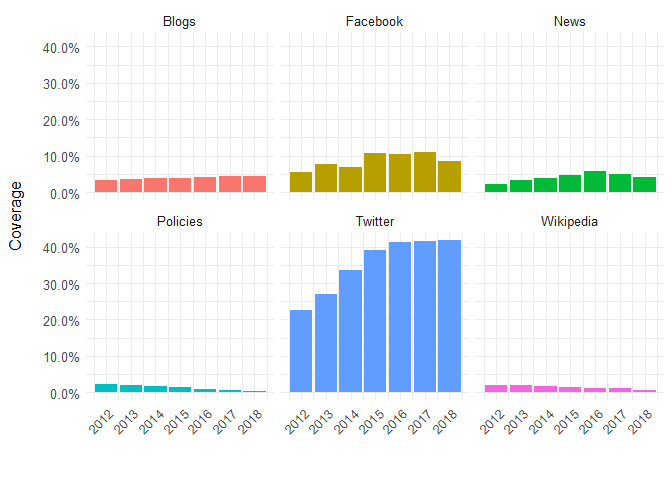
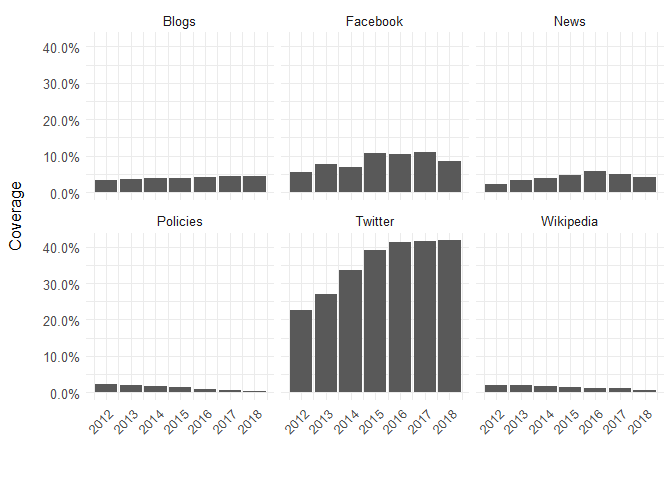
wip

diff --git a/documentation.md b/documentation.md
@@ -53,8 +53,8 @@ read_csv("data/wos_items_year.csv") %>%
 
 ISO Alpha-2 country codes of **first** authors were extracted for the
 set of articles defined above
-([query](queries/create_table_wos_first_authors.sql)), combining the
-following tables:
+([query](queries/create_table_wos_first_author_countries.sql)),
+combining the following tables:
 
   - userdb\_frasernm.dbo.wos\_items (as defined above)
   - wosaddr1913.dbo.pub\_author\_affiliation
@@ -155,7 +155,7 @@ Counts were initially extracted for the following altmetric indicators:
 Where no altmetric information was found for an article, counts were
 registered as zero.
 
-##### Overall coverage of WOS articles by different altmetric indicators per year ([query](queries/calc_altmetric_coverage_year.sql))
+##### Overall coverage of WOS articles by different altmetric indicators per year ([query](queries/calc_altmetrics_coverage_year.sql))
 
 ``` r
 read_csv("data/altmetrics_coverage_year.csv") %>%
@@ -167,7 +167,7 @@ read_csv("data/altmetrics_coverage_year.csv") %>%
                        labels = c("Blogs", "Facebook", "News", "Policies",
                                   "Twitter", "Wikipedia"))) %>%
   ggplot() +
-  geom_bar(aes(x = year, y = value, fill = name), stat = "identity") +
+  geom_bar(aes(x = year, y = value), stat = "identity") +
   facet_wrap(. ~ name) +
   labs(x = "", 
        y = "Coverage") +
@@ -178,13 +178,14 @@ read_csv("data/altmetrics_coverage_year.csv") %>%
 
 ![](documentation_files/figure-gfm/unnamed-chunk-5-1.png)<!-- -->
 
-The best coverage is clearly observed in Twitter, followed by Facebook,
-then news and blogs, Wikipedia and policies. Different temporal trends
-are observed for each indicator, e.g. Twitter coverage increases greatly
-between 2012 and 2016, which may reflect rapid user growth on the
-platform itself. Conversely, policy citations decrease over time, likely
-because policy citations take longer to accrue (\~years) than mentions
-on social media (\~days to weeks).
+The highest coverage is observed in Twitter, followed by Facebook, then
+news and blogs, Wikipedia and policies. Different temporal trends are
+observed for each indicator, e.g. Twitter coverage increases between
+2012 and 2016, which may reflect rapid user growth on the platform
+itself. Conversely, policy citations decrease over time, likely because
+policy citations take longer to accrue (\~years) than mentions on social
+media (\~days to weeks) (see [Fang and
+Costas, 2018](https://openaccess.leidenuniv.nl/handle/1887/65278)).
 
 ## OA Classification
 
@@ -236,9 +237,23 @@ and one excluding PMC articles from Green OA when they match with an
 alternative kind of OA
 ([create\_table\_unpaywall\_classification\_pmccor.sql](queries/create_table_unpaywall_classification_pmccor.sql)).
 
-The number of articles classified as Green OA are compared depending on
-whether PMC is included or excluded as a source of Green OA (note: this
-has no effect on other OA classification types):
+##### Green OA articles in Unpaywall including and excluding PMC ([query](queries/calc_unpaywall_classification_pmc_comparison.sql))
+
+``` r
+read_csv("data/unpaywall_classification_pmc_comparison.csv",
+         col_types = "nln") %>%
+  mutate(pmc_corrected = factor(pmc_corrected,
+                                levels = c(T, F))) %>%
+  ggplot(aes(x = year, y = green, fill = pmc_corrected)) +
+  geom_bar(stat = "identity", position = "dodge") +
+  labs(x = "", 
+       y = "Green OA articles",
+       fill = "Excludes PMC") +
+  scale_x_continuous(breaks = 2010:2019) +
+  scale_y_continuous(labels = scales::comma) +
+  scale_fill_manual(values = c(palette_color("dark green"),
+                               palette_color("light green")))
+```
 
 ![](documentation_files/figure-gfm/unnamed-chunk-6-1.png)<!-- -->
 
@@ -250,64 +265,91 @@ However, when checking the same articles from 2018 and 2019 directly via
 the Unpaywall API, PMC *is* included as an evidence source. A
 possibility is that Unpaywall only crawl PMC sporadically (as articles
 in Gold OA journals, such as PLOS ONE, are deposited immediately to
-PMC), or that a technical issue occurred.
+PMC), or that a technical issue occurred \[**to do:** investigate this
+issue further. Contact Unpaywall?\]
 
-The overlap of PMC with other journal-based OA types (gold, bronze,
-hybrid) was also assessed:
+##### Overlap of articles in PMC with journal-based OA types ([query](queries/calc_unpaywall_classification_pmc_overlap.sql))
+
+``` r
+read_csv("data/unpaywall_classification_pmc_overlap.csv") %>%
+  pivot_longer(closed:bronze) %>%
+  # there is no overlap between closed and PMC
+  filter(name != "closed") %>%
+  mutate(type = factor(name,
+                       levels = c("gold", "hybrid", "bronze"))) %>%
+  ggplot() +
+  geom_bar(aes(x = year, y = value, fill = type),
+           stat = "identity", position = "dodge", width = 0.75) +
+  labs(x = "", 
+       y = "Articles",
+       fill = "OA Type") +
+  scale_x_continuous(breaks = 2010:2019) +
+  scale_y_continuous(labels = scales::comma) +
+  scale_fill_manual(values = c(palette_color("gold"),
+                               palette_color("hybrid"),
+                               palette_color("bronze")))
+```
 
 ![](documentation_files/figure-gfm/unnamed-chunk-7-1.png)<!-- -->
 
 PMC appears to overlap most strongly (and overlap has grown most
 rapidly) with Gold OA, but also a non-negligible amount with Hybrid and
-Bronze OA.
+Bronze OA. Note, as previously, PMC articles are missing from 2018 and
+2019.
 
-#### Should we exclude PMC from our analysis?
-
-From these results there seems no ‘a priori’ reason to completely
-exclude PMC. Even though authors do not deposit work to PMC, it remains
-an open repository and discovery tool and may thus have an influence on
-article impact. An alternative may eventually be to create a separate
-category for PMC articles. For the following documentation, PMC articles
-are included and labelled as Green OA.
-
-### Green OA
+### Exclusivity of Green OA
 
 Following the classification procedure of Robinson-Garcia et al. (2019),
 Green OA is treated as a non-exclusive category, i.e. an article is
 labelled as Green if it is available via a repository, regardless of its
 availability status at the journal page. However, some questions remain
 about this approach in the context of understanding OA impact - for
-example, will authors really use (and be more likely to cite/mention) an
-article if it is an OA repository, when it is also available directly
-(and likely more easily) on a journal page? The impact dynamics are
+example, from the readership perspective, will readers really use (and
+be more likely to cite/mention) an article if it is an OA repository,
+when it is also available directly on a journal page? And from the
+authors perspective - do the authors who publish in OA journals **and**
+self-archive their papers represent a different demographic/category of
+authors, than those who **only** self-archive? The impact dynamics are
 therefore likely different for Green OA, depending on the availability
 of the corresponding journal article.
 
-To understand this better, the share of Green OA that is open (i.e. the
-sum of Gold, Green and Bronze OA) and closed at the journal page is
-shown:
+##### Number of Green OA articles that are open and closed at the corresponding journal page ([query](queries/calc_unpaywall_classification_green_types.sql))
 
 ![](documentation_files/figure-gfm/unnamed-chunk-8-1.png)<!-- -->
 
-Interestingly, Green OA growth is driven more strongly by articles which
-are also available at the corresponding journal page. The decrease in
-Green OA coverage after 2018 is in part due to the issues with PMC
-coverage documented above, and also likely due to journal embargo
-periods. A more fine-grained analysis shows, for the articles available
-at the journal page, the number of articles contributing to Green OA for
-each journal type:
+It appears that Green OA growth is more strongly represented by articles
+which are also available at the corresponding journal page, than closed
+articles. Note, however, that the above figures includes PMC articles -
+as shown in the previous section, there is also a large overlap of PMC
+with Gold OA, and to a lesser extent with Hybrid and Bronze OA.
+
+##### Number of Green OA articles published in different types of OA journals ([query](queries/calc_unpaywall_classification_green_types.sql))
 
 ![](documentation_files/figure-gfm/unnamed-chunk-9-1.png)<!-- -->
 
-The results show that in general, the contribution of Gold and Hybrid
-articles to Green OA shares has grown strongly between 2010 and 2017.
-Interestingly, the contribution of Bronze OA articles over this time
-period remains relatively static, and even falls marginally from 2014
-onwards.
+The results show that the contribution of Gold articles to Green OA
+shares has grown most strongly between 2010 and 2017. However,
+approximately 75% of the growth can be attributed to growth in deposits
+to PMC. Interestingly, whilst the contribution of Hybrid OA has grown
+over this time period, the contribution of Bronze OA remains relatively
+static, and even falls marginally from 2014 onwards.
 
-#### Should Green OA articles be labelled at a more granular level?
+### Recommendations for classifying Green OA
 
-…to discuss…
+From the above results, a general recommendation is that Green OA cannot
+be considered a ‘black box’ in the context of understanding impact
+metrics, as it includes multiple archiving routes, and interacts
+strongly with other forms of OA.
+
+Even though authors do not deposit work to PMC, it remains an open
+repository and discovery tool and thus from the reader perspective may
+have an influence on impact. However, the strong overlap between PMC and
+Gold OA means that including PMC articles within Green OA will lead to a
+bias towards Gold OA. From the author perspective, PMC also represents a
+different demographic/category of authors, than authors who actively
+self-archive their work. An alternative may therefore be to create
+separate categories for Green OA including and excluding PMC articles,
+or for Green OA including and excluding journal-based OA.
 
 ### Open Access shares
 
